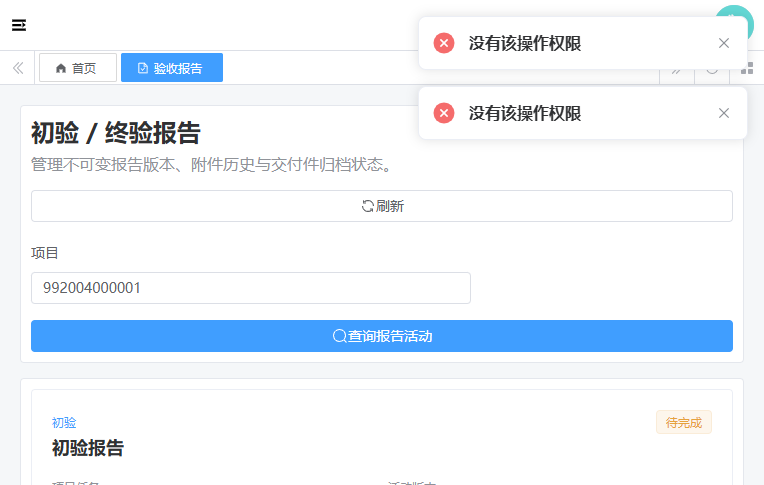
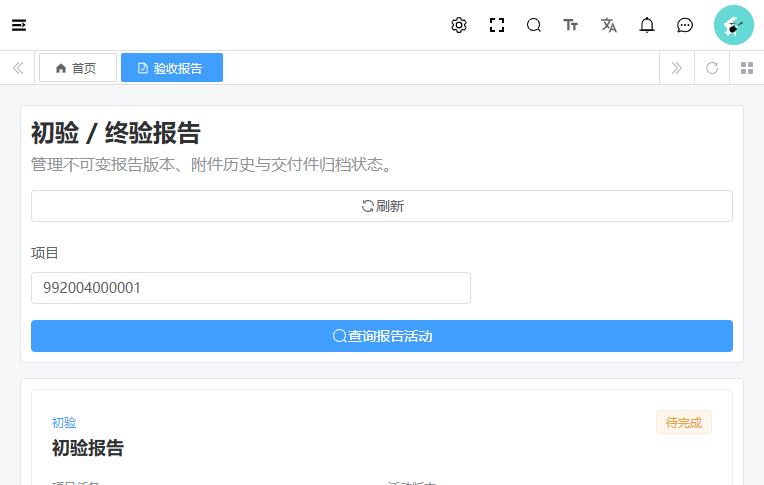
fix(acceptance): 闭合归档补偿与正式验收证据
- 允许待补偿历史来源归档且不覆盖当前应交根
- 以前向迁移补齐正式报告页的项目查询权限
- 由单一Chromium脚本复现调度、归档、下载与负向验收

diff --git a/pms-module-project/src/test/java/cn/iocoder/yudao/module/pms/project/service/acceptancereport/Facc001ApplicationMySqlIntegrationTest.java b/pms-module-project/src/test/java/cn/iocoder/yudao/module/pms/project/service/acceptancereport/Facc001ApplicationMySqlIntegrationTest.java
@@ -8,10 +8,14 @@ import cn.iocoder.yudao.module.pms.platform.api.file.FileArtifactApi;
 import cn.iocoder.yudao.module.pms.platform.api.file.dto.FileArtifactVersionFact;
 import cn.iocoder.yudao.module.pms.platform.api.file.dto.FileFactVersion;
 import cn.iocoder.yudao.module.pms.platform.api.file.dto.FileReferenceSetFact;
+import cn.iocoder.yudao.module.pms.project.service.acceptancereport.event.AcceptanceReportVersionChangedMessage;
 import cn.iocoder.yudao.module.pms.project.api.scope.ProjectScopeApi;
 import cn.iocoder.yudao.module.pms.project.api.scope.dto.ProjectScopeResult;
 import cn.iocoder.yudao.module.pms.platform.service.command.PlatformCommandExecutionApiImpl;
 import cn.iocoder.yudao.module.pms.platform.service.command.PlatformTransactionalOutboxWriter;
+import cn.iocoder.yudao.module.pms.project.dal.dataobject.acceptancereport.ProjectDeliverableSourceVersionDO;
+import cn.iocoder.yudao.module.pms.project.dal.mysql.acceptancereport.ProjectDeliverableSourceVersionMapper;
+import cn.iocoder.yudao.module.pms.project.dal.mysql.acceptancereport.query.PendingArchiveSourceQuery;
 import com.alibaba.druid.spring.boot4.autoconfigure.DruidDataSourceAutoConfigure;
 import com.baomidou.mybatisplus.autoconfigure.MybatisPlusAutoConfiguration;
 import com.github.yulichang.autoconfigure.MybatisPlusJoinAutoConfiguration;
@@ -31,6 +35,7 @@ import org.springframework.jdbc.core.JdbcTemplate;
 import org.springframework.test.context.DynamicPropertyRegistry;
 import org.springframework.test.context.DynamicPropertySource;
 import org.springframework.test.context.bean.override.mockito.MockitoBean;
+import org.springframework.test.context.bean.override.mockito.MockitoSpyBean;
 
 import javax.sql.DataSource;
 import java.time.LocalDateTime;
@@ -43,7 +48,10 @@ import static org.junit.jupiter.api.Assertions.assertEquals;
 import static org.junit.jupiter.api.Assertions.assertThrows;
 import static org.junit.jupiter.api.Assertions.assertTrue;
 import static org.mockito.ArgumentMatchers.any;
+import static org.mockito.ArgumentCaptor.forClass;
 import static org.mockito.Mockito.doAnswer;
+import static org.mockito.Mockito.doReturn;
+import static org.mockito.Mockito.verify;
 import static org.mockito.Mockito.when;
 
 @EnabledIfSystemProperty(named = "skipITs", matches = "false")
@@ -56,9 +64,13 @@ class Facc001ApplicationMySqlIntegrationTest {
     private static final String KEY_PREFIX = "facc001-it-";
 
     @Resource AcceptanceReportCommandService service;
+    @Resource AcceptanceReportSourceProjectionService projectionService;
+    @Resource AcceptanceReportArchiveCompensationService archiveService;
+    @Resource AcceptanceReportArchiveCompensationJob archiveJob;
     @Resource JdbcTemplate jdbcTemplate;
     @MockitoBean FileArtifactApi fileArtifactApi;
     @MockitoBean ProjectScopeApi projectScopeApi;
+    @MockitoSpyBean ProjectDeliverableSourceVersionMapper sourceMapper;
 
     private long projectId;
     private long activityId;
@@ -92,6 +104,11 @@ class Facc001ApplicationMySqlIntegrationTest {
                         + "current_report_version_id,version,creator,updater,deleted,tenant_id) "
                         + "VALUES (?,?,?,?, 'PRELIMINARY','PENDING',NULL,0,'facc001_it','facc001_it',b'0',?)",
                 activityId, projectId, projectId + 2, projectId + 3, TENANT_ID);
+        jdbcTemplate.update("INSERT INTO acc_project_deliverable "
+                        + "(id,project_id,deliverable_code,name,stage_code,required,status,current_source_version_id,archive_status,"
+                        + "version,creator,updater,deleted,tenant_id) "
+                        + "VALUES (?,?, 'D-INITIAL-REPORT','初验报告','S5',b'1','PENDING',NULL,NULL,0,'facc001_it','facc001_it',b'0',?)",
+                projectId + 4, projectId, TENANT_ID);
         when(projectScopeApi.resolveCurrent(any())).thenReturn(
                 new ProjectScopeResult(projectId, 1L, Set.of(projectId), Set.of()));
     }
@@ -105,6 +122,10 @@ class Facc001ApplicationMySqlIntegrationTest {
                     KEY_PREFIX + activityId + "%");
             jdbcTemplate.update("DELETE FROM acc_acceptance_report_attachment WHERE report_version_id IN "
                     + "(SELECT id FROM acc_acceptance_report_version WHERE acceptance_id=?)", activityId);
+            jdbcTemplate.update("DELETE FROM acc_project_deliverable_source_attachment WHERE deliverable_source_version_id IN "
+                    + "(SELECT id FROM acc_project_deliverable_source_version WHERE deliverable_id=?)", projectId + 4);
+            jdbcTemplate.update("DELETE FROM acc_project_deliverable_source_version WHERE deliverable_id=?", projectId + 4);
+            jdbcTemplate.update("DELETE FROM acc_project_deliverable WHERE id=?", projectId + 4);
             jdbcTemplate.update("DELETE FROM acc_acceptance_report_version WHERE acceptance_id=?", activityId);
             jdbcTemplate.update("DELETE FROM acc_acceptance WHERE id=?", activityId);
         } finally {
@@ -165,6 +186,72 @@ class Facc001ApplicationMySqlIntegrationTest {
                 String.valueOf(activityId)));
     }
 
+    @Test
+    void supersededPendingSourceRemainsArchivableWithoutOverwritingCurrentRootSummary() {
+        var first = service.createDraft(new AcceptanceReportCommands.CreateDraftCommand(
+                activityId, 0, completeContent("初验V1")), actor);
+        FileArtifactVersionFact firstFile = stubAttachment(first.reportVersionId());
+        service.publish(publish(first, null, 0, "-archive-v1", "f"), actor);
+        projectionService.project(versionEvent("EFFECTIVE", first.reportVersionId(), null, 1, firstFile));
+
+        var second = service.createDraft(new AcceptanceReportCommands.CreateDraftCommand(
+                activityId, 1, completeContent("初验V2")), actor);
+        FileArtifactVersionFact secondFile = stubAttachment(second.reportVersionId());
+        service.publish(publish(second, first.reportVersionId(), 1, "-archive-v2", "a"), actor);
+        projectionService.project(versionEvent("REPLACED", second.reportVersionId(),
+                first.reportVersionId(), 2, secondFile));
+
+        Long firstSourceId = jdbcTemplate.queryForObject(
+                "SELECT id FROM acc_project_deliverable_source_version WHERE deliverable_id=? AND source_object_id=?",
+                Long.class, projectId + 4, first.reportVersionId());
+        assertEquals("SUPERSEDED/PENDING_COMPENSATION", jdbcTemplate.queryForObject(
+                "SELECT CONCAT(relation_status,'/',archive_status) FROM acc_project_deliverable_source_version WHERE id=?",
+                String.class, firstSourceId));
+        assertTrue(sourceMapper.selectPendingArchive(new PendingArchiveSourceQuery(TENANT_ID, 1000)).stream()
+                .anyMatch(source -> firstSourceId.equals(source.getId())));
+
+        archiveService.archive(TENANT_ID, firstSourceId);
+
+        assertEquals("SUPERSEDED/ARCHIVED", jdbcTemplate.queryForObject(
+                "SELECT CONCAT(relation_status,'/',archive_status) FROM acc_project_deliverable_source_version WHERE id=?",
+                String.class, firstSourceId));
+        assertEquals("PENDING_COMPENSATION", jdbcTemplate.queryForObject(
+                "SELECT archive_status FROM acc_project_deliverable WHERE id=?", String.class, projectId + 4));
+        assertEquals(second.reportVersionId(), jdbcTemplate.queryForObject(
+                "SELECT source_object_id FROM acc_project_deliverable_source_version WHERE id=(SELECT current_source_version_id FROM acc_project_deliverable WHERE id=?)",
+                Long.class, projectId + 4));
+        var commandCaptor = forClass(cn.iocoder.yudao.module.pms.platform.api.file.dto.ArchiveFileReferenceSetsCommand.class);
+        verify(fileArtifactApi).archiveReferenceSets(commandCaptor.capture());
+        assertEquals(String.valueOf(first.reportVersionId()), commandCaptor.getValue().archiveSetKey().objectId());
+    }
+
+    @Test
+    void archiveProviderFailureKeepsSourcePendingAndNextJobRunRetriesSuccessfully() {
+        var report = service.createDraft(new AcceptanceReportCommands.CreateDraftCommand(
+                activityId, 0, completeContent("初验重试")), actor);
+        FileArtifactVersionFact file = stubAttachment(report.reportVersionId());
+        service.publish(publish(report, null, 0, "-archive-retry", "b"), actor);
+        projectionService.project(versionEvent("EFFECTIVE", report.reportVersionId(), null, 1, file));
+        Long sourceId = jdbcTemplate.queryForObject(
+                "SELECT id FROM acc_project_deliverable_source_version WHERE source_object_id=?",
+                Long.class, report.reportVersionId());
+        ProjectDeliverableSourceVersionDO source = sourceMapper.selectById(sourceId);
+        doReturn(List.of(source)).when(sourceMapper).selectPendingArchive(any());
+        when(fileArtifactApi.archiveReferenceSets(any()))
+                .thenThrow(new IllegalStateException("provider unavailable"))
+                .thenReturn(null);
+
+        archiveJob.execute("");
+        assertEquals("PENDING_COMPENSATION/1", jdbcTemplate.queryForObject(
+                "SELECT CONCAT(archive_status,'/',archive_retry_count) FROM acc_project_deliverable_source_version WHERE source_object_id=?",
+                String.class, report.reportVersionId()));
+
+        archiveJob.execute("");
+        assertEquals("ARCHIVED/1", jdbcTemplate.queryForObject(
+                "SELECT CONCAT(archive_status,'/',archive_retry_count) FROM acc_project_deliverable_source_version WHERE source_object_id=?",
+                String.class, report.reportVersionId()));
+    }
+
     private AcceptanceReportCommands.PublishCommand publish(AcceptanceReportCommands.ReportResult report,
                                                               Long currentId, int activityVersion,
                                                               String keySuffix, String digestSeed) {
@@ -177,7 +264,7 @@ class Facc001ApplicationMySqlIntegrationTest {
                 "PASS", text, "验收人");
     }
 
-    private void stubAttachment(Long reportVersionId) {
+    private FileArtifactVersionFact stubAttachment(Long reportVersionId) {
         String referenceKey = UUID.nameUUIDFromBytes(String.valueOf(reportVersionId).getBytes()).toString();
         FileArtifactVersionFact file = new FileArtifactVersionFact(reportVersionId + 100, 1, referenceKey,
                 "ACCEPTANCE_REPORT_ATTACHMENT", "report.pdf", 1024L, "application/pdf", "e".repeat(64),
@@ -194,6 +281,14 @@ class Facc001ApplicationMySqlIntegrationTest {
             return List.of(new FileReferenceSetFact(expected.key(), expected.expectedScopeVersion(),
                     expected.expectedActiveFacts()));
         }).when(fileArtifactApi).lockAndRevalidateReferenceSets(any());
+        return file;
+    }
+
+    private AcceptanceReportVersionChangedMessage versionEvent(String changeType, Long currentId,
+                                                                 Long previousId, int versionNo,
+                                                                 FileArtifactVersionFact file) {
+        return new AcceptanceReportVersionChangedMessage(UUID.randomUUID().toString(), TENANT_ID, changeType,
+                activityId, projectId, "PRELIMINARY", USER_ID, currentId, previousId, versionNo, List.of(file));
     }
 
     private long eventCount(String eventType) {
@@ -213,13 +308,16 @@ class Facc001ApplicationMySqlIntegrationTest {
     }
 
     @SpringBootConfiguration
-    @MapperScan({"cn.iocoder.yudao.module.pms.project.dal.mysql.acceptancereport",
+    @MapperScan({"cn.iocoder.yudao.module.pms.project.dal.mysql.acceptance",
+            "cn.iocoder.yudao.module.pms.project.dal.mysql.acceptancereport",
             "cn.iocoder.yudao.module.pms.platform.dal.mysql.command"})
     @Import({YudaoDataSourceAutoConfiguration.class, DataSourceAutoConfiguration.class,
             DataSourceTransactionManagerAutoConfiguration.class, DruidDataSourceAutoConfigure.class,
             YudaoMybatisAutoConfiguration.class, MybatisPlusAutoConfiguration.class,
             MybatisPlusJoinAutoConfiguration.class, SpringUtil.class, PlatformCommandExecutionApiImpl.class,
-            PlatformTransactionalOutboxWriter.class, AcceptanceReportCommandService.class})
+            PlatformTransactionalOutboxWriter.class, AcceptanceReportCommandService.class,
+            AcceptanceReportSourceProjectionService.class, AcceptanceReportArchiveCompensationService.class,
+            AcceptanceReportArchiveCompensationJob.class})
     static class TestApplication {
         @Bean JdbcTemplate jdbcTemplate(DataSource dataSource) { return new JdbcTemplate(dataSource); }
     }

diff --git a/pms-module-project/src/test/java/cn/iocoder/yudao/module/pms/project/migration/Facc001MigrationContractTest.java b/pms-module-project/src/test/java/cn/iocoder/yudao/module/pms/project/migration/Facc001MigrationContractTest.java
@@ -81,4 +81,18 @@ class Facc001MigrationContractTest {
         assertTrue(sql.contains("involved_row_count = 2 AND exact_row_count = 2"));
         assertTrue(sql.contains("partial or conflicting"));
     }
+
+    @Test
+    void v132MustGrantOnlyTheExistingProjectQueryMenuToTheManagedRole() throws Exception {
+        String sql = Files.readString(Path.of("..", "sql", "migrations",
+                "V132__facc001_acceptance_project_query_permission.sql"));
+
+        assertTrue(sql.contains("992004800002"));
+        assertTrue(sql.contains("18067"));
+        assertTrue(sql.contains("pms:project:query"));
+        assertTrue(sql.contains("parent_id` = 19261"));
+        assertTrue(sql.contains("involved_grant_count = 0"));
+        assertFalse(sql.contains("INSERT INTO `system_menu`"));
+        assertFalse(sql.contains("INSERT INTO `system_role`"));
+    }
 }

diff --git a/pms-module-project/src/main/java/cn/iocoder/yudao/module/pms/project/service/acceptancereport/AcceptanceReportArchiveCompensationService.java b/pms-module-project/src/main/java/cn/iocoder/yudao/module/pms/project/service/acceptancereport/AcceptanceReportArchiveCompensationService.java
@@ -47,7 +47,8 @@ public class AcceptanceReportArchiveCompensationService {
             throw new IllegalStateException("archive source identity conflict");
         }
         if ("ARCHIVED".equals(source.getArchiveStatus())) return;
-        if (!"CURRENT".equals(source.getRelationStatus()) || !"PENDING_COMPENSATION".equals(source.getArchiveStatus())) {
+        if (!("CURRENT".equals(source.getRelationStatus()) || "SUPERSEDED".equals(source.getRelationStatus()))
+                || !"PENDING_COMPENSATION".equals(source.getArchiveStatus())) {
             throw new IllegalStateException("archive source state conflict");
         }
         AcceptanceReportVersionDO report = reportMapper.selectById(source.getSourceObjectId());

diff --git a/docs/superpowers/plans/2026-08-30-f-acc-001-acceptance-report-version-deliverable-sync.md b/docs/superpowers/plans/2026-08-30-f-acc-001-acceptance-report-version-deliverable-sync.md
@@ -134,7 +134,7 @@ FileArchiveReferenceSetFact archiveReferenceSets(
 - 新增：`pms-module-project/src/main/java/cn/iocoder/yudao/module/pms/project/controller/admin/acceptancereport/`及VO，实现Feature Spec锁定的查询、草稿、发布、撤销和下载REST；服务端读取租户/操作者、`If-Match`和`Idempotency-Key`。
 - 修改：`ProjectManualCreationServiceImpl.java`和`ProjectTaskLifecycleService.java`，只接入批准的initializer/completion Provider，不复制ACC规则或直接访问ACC表。
 
-### 4.2 V128/V129/V130/V131前向迁移
+### 4.2 V128/V129/V130/V131/V132前向迁移
 
 新增`sql/migrations/V128__facc001_acceptance_report_version_forward.sql`，顺序固定：
 
@@ -147,6 +147,7 @@ FileArchiveReferenceSetFact archiveReferenceSets(
 7. 真实认证复核发现Yudao会递归过滤父级未授权的菜单；V128已执行且保持不可变。新增`V129__facc001_acceptance_role_menu_ancestor_fix.sql`，仅为受管角色补齐ACC入口、项目任务链和文件链所需的6个既有父级菜单`19260/19266/19261/18000/1243/2`。迁移精确校验受管角色、菜单父子关系和启用状态；仅接受“6条均不存在”后原子插入或“6条均已存在”幂等复核，部分状态失败关闭，不新增权限键、菜单、角色或业务角色模板。
 8. 真实完成链复核发现V128活动仍持有已关闭的旧`TASK_NATIVE`契约ID；V128/V129保持不可变。新增`V130__facc001_acceptance_activity_contract_identity_fix.sql`，仅处理`creator=v128-facc001`且同租户、同项目、同任务、`targetObjectKey=acceptanceId`精确匹配的活动。只接受“已指向唯一当前ACC契约”或“仍指向同任务已关闭旧TASK_NATIVE契约”两种状态，后者原子纠正`execution_contract_id`；部分、重复、错身份或未知来源在更新前整批失败。
 9. 真实Outbox链复核发现两个ACC `JobHandler`缺少正式调度配置和启动同步。新增`V131__facc001_acceptance_report_jobs.sql`，以固定高段ID配置`acceptanceReportOutboxDeliveryJob`和`acceptanceReportArchiveCompensationJob`两条启用任务，30秒周期、空参数、Quartz重试为0；仅接受全无后成对插入或完整一致幂等复核。新增`AcceptanceReportQuartzRegistrar`，Quartz存在时按“事件投递→归档补偿”固定顺序复用`JobApi.syncEnabledJobByHandlerName`同步，任一同步失败直接使启动失败；Quartz未装配时不调用。两个Handler保持`@TenantJob`多租户路径，并与现有File Outbox一致，在正式单租户配置下显式进入tenant 0后执行，禁止无租户上下文访问业务表。
+10. 真实UI复核发现报告页项目选择器使用既有项目分页接口。V128～V131保持不可变；新增`V132__facc001_acceptance_project_query_permission.sql`，仅为受管角色授权V57现役菜单`18067`及既有`pms:project:query`，精确校验角色、菜单、父菜单和启用状态，不新增权限键、菜单、角色或业务角色模板。
 
 ### 4.3 前端
 

diff --git a/tasks/features/F-ACC-001.md b/tasks/features/F-ACC-001.md
@@ -5,8 +5,8 @@
 > Feature Ready Gate：`PASS / GO`（`bde0feac`）<br>
 > Technical Plan Gate：`PASS / GO`（`fca9626c`）<br>
 > Implementation Done Gate：`NOT_SUBMITTED`<br>
-> 当前阻断：`无；待Implementation Done独立审核`<br>
-> 当前任务：`Task 2 Step 6：证据、提交与送审`<br>
+> 当前阻断：`无；待Implementation Done整改复审`<br>
+> 当前任务：`Task 2 Step 6：证据、提交与整改复审`<br>
 > Requirement ID：`ACC-03@V1=FULL`；`ACC-04@V1=PARTIAL`<br>
 > Feature Spec：`specs/features/F-ACC-001-acceptance-report-version-and-deliverable-sync.md`<br>
 > Technical Plan：`docs/superpowers/plans/2026-08-30-f-acc-001-acceptance-report-version-deliverable-sync.md`<br>
@@ -16,7 +16,7 @@
 
 - 实现初验/终验活动、草稿与不可变报告版本、终验守卫、PROJ任务同事务完成、既有应交根来源同步、PLT独立归档补偿和历史附件下载。
 - 仅覆盖`ACC-04`的初验/终验报告来源切片；不实现其余来源、CLO业务、统一批量下载或Q-FCOM-002退出/回退规则。
-- 不修改V17/V63/V124～V128和Yudao基础平台；V129～V131仅作前向受管验收事实与调度纠偏；第三方归档平台只保留接口，不实现连接器。
+- 不修改V17/V63/V124～V128和Yudao基础平台；V129～V132仅作前向受管验收事实、调度和正式页面权限纠偏；第三方归档平台只保留接口，不实现连接器。
 - 只冻结最小权限键和服务端控制点；正式验收身份通过授权配置取得全部相关权限，不固定角色模板、不删除鉴权或租户隔离。
 - 本Worktree独占后端端口`59330`、前端端口`19330`；MySQL`23316`、Redis`26379`共享仓库基础设施。
 
@@ -40,4 +40,4 @@
 
 Task精确文件、命令和验收条件以唯一Technical Plan为准。Task局部完成不得宣称Feature或Requirement完成；两个Task全部完成并通过验证后，只申请一次Feature Implementation Done裁决。
 
-> 检查点：基线=`0b1671cb`；当前Gate=Implementation Done待送审；已通过=V1→V131、正式认证与Chromium报告换版/历史下载/终验完成/撤销、Quartz投递与归档；阻塞=无；下一步=提交候选并申请独立审核。
+> 检查点：基线=`3a27eeff`；当前Gate=Implementation Done整改复审；已通过=SUPERSEDED补偿、V132权限、单脚本Chromium与3来源归档/4事件投递；阻塞=无；下一步=提交候选并复审。
